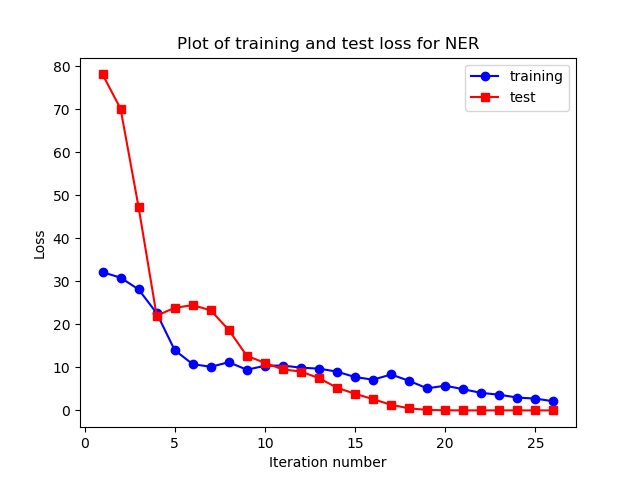
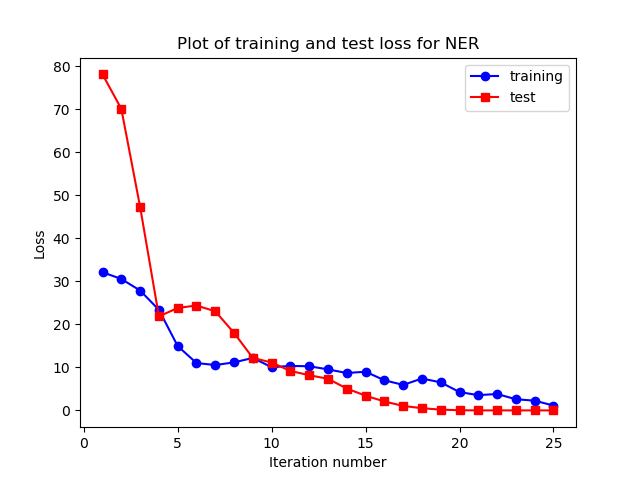
updating outputs; adding logs. updated .gitignore

diff --git a/named-entity-recognizer/src/train_ner_from_scratch.py b/named-entity-recognizer/src/train_ner_from_scratch.py
@@ -1,8 +1,13 @@
 from ner_utils.train_evaluate import get_tagged_data, CustomizedNer
+from ner_utils.logger import get_log_object
 
 
 if __name__ == '__main__':
+
+    # instantiate logs
+    log = get_log_object()
     # read data and get it tagged for both training and test
+    log.info('Reading training and test data...')
     list_training_data = get_tagged_data(path_to_csv_data='../data_sample/training_data_small.csv',
                                          path_to_csv_entities='../data_sample/entities.csv')
 
@@ -13,27 +18,30 @@ if __name__ == '__main__':
     num_iters = 50
     ner_model = CustomizedNer(number_iterations=num_iters)
     # train it; early stop is set by default
+    log.info('Training customized NER with %i iterations', num_iters)
     ner_model.train_early_stop(list_train_data=list_training_data,
                                list_test_data=list_test_data,
-                               enhancement_iteration_factor=0.085,
+                               enhancement_iteration_factor=0.050,
                                use_mini_batch=False, verbose=False)
 
     # get dictionary of performance metrics for training
     dict_metrics_training = ner_model.predict(list_training_data)
-    print(dict_metrics_training)
+    log.info('Dictionary of metrics on training data %s', str(dict_metrics_training))
     precision_train = dict_metrics_training['precision']
     recall_train = dict_metrics_training['recall']
     f1_train = dict_metrics_training['F1']
 
     # get dictionary of performance metrics for test
     dict_metrics_test = ner_model.predict(list_test_data)
-    print(dict_metrics_test)
+    log.info('Dictionary of metrics on test data %s', str(dict_metrics_test))
     precision_test = dict_metrics_test['precision']
     recall_test = dict_metrics_test['recall']
     f1_test = dict_metrics_test['F1']
 
     # create a simple txt files that captures the precision, recall and F1 for both training and test sets
-    with open("../output_metrics/metrics.txt", 'w') as outfile:
+    path_to_metrics = "../output_metrics/metrics.txt"
+    log.info('Generating file with metrics and saving to %s', path_to_metrics)
+    with open(path_to_metrics, 'w') as outfile:
         outfile.writelines(["Number of iterations: " + str(round(num_iters, 2)) + "\n",
                             "Precision training: " + str(round(precision_train, 2)) + "\n",
                             "Precision test: " + str(round(precision_test, 2)) + "\n",

diff --git a/named-entity-recognizer/src/ner_utils/train_evaluate.py b/named-entity-recognizer/src/ner_utils/train_evaluate.py
@@ -10,8 +10,12 @@ import random
 import warnings
 from pathlib import Path
 import pandas as pd
+from ner_utils.logger import get_log_object
 from matplotlib import pyplot as plt
 
+
+# instantiate log object
+log = get_log_object()
 
 def get_list_pos_one_word(text_in: str, word_to_tag: str) -> list:
     """
@@ -272,16 +276,16 @@ class CustomizedNer:
                 list_F1_test.append(metrics_test['F1'])
 
                 # display values of loss and F1 for both training and test
-                print("Losses train ", losses['ner'], " F1 train ", metrics_training['F1'])
-                print("Losses test", losses_test['ner'], " F1 test ", metrics_test['F1'])
-                print("===================================================")
+                log.info("Losses train=%f,  F1 train=%f ", losses['ner'], metrics_training['F1'])
+                log.info("Losses test=%f,  F1 test=%f ", losses['ner'], metrics_test['F1'])
+                log.info("===================================================")
 
                 # if early stop is being used, compare the loss at the given iteration with
                 # the loss of the initial iteration factored by enhancement_iteration_factor...
                 if early_stop:
                     if (losses_test['ner'] < losses['ner']) & (
                             losses['ner'] <= enhancement_iteration_factor * initial_loss):
-                        print('Stopping at iteration number ', itn + 1)
+                        log.info('Stopping at iteration number %i', itn + 1)
                         break
 
             # display predictions on training data

diff --git a/named-entity-recognizer/src/ner_utils/logger.py b/named-entity-recognizer/src/ner_utils/logger.py
@@ -1,0 +1,27 @@
+import os
+import logging
+from logging.handlers import TimedRotatingFileHandler
+
+
+def get_log_object():
+    log = logging.getLogger(__name__)
+    log.setLevel(logging.DEBUG)
+    formatter = logging.Formatter('%(asctime)s,%(msecs)3d %(levelname)-8s [%(filename)s:%(lineno)d] - %(message)s')
+
+    ch = logging.StreamHandler()
+    ch.setLevel(logging.INFO)
+    ch.setFormatter(formatter)
+
+    fh = TimedRotatingFileHandler('../logs/' + os.path.basename(__file__) + '.log', when='midnight', interval=1)
+    fh.suffix = '%Y%m%d'
+    fh.setLevel(logging.DEBUG)
+    fh.setFormatter(formatter)
+
+    # cleaning log if needed
+    if log.hasHandlers():
+        log.handlers.clear()
+
+    log.addHandler(fh)
+    log.addHandler(ch)
+
+    return log

diff --git a/named-entity-recognizer/logs/README.md b/named-entity-recognizer/logs/README.md
@@ -1,0 +1,3 @@
+# Logs
+
+Folder to store logs generated by code
